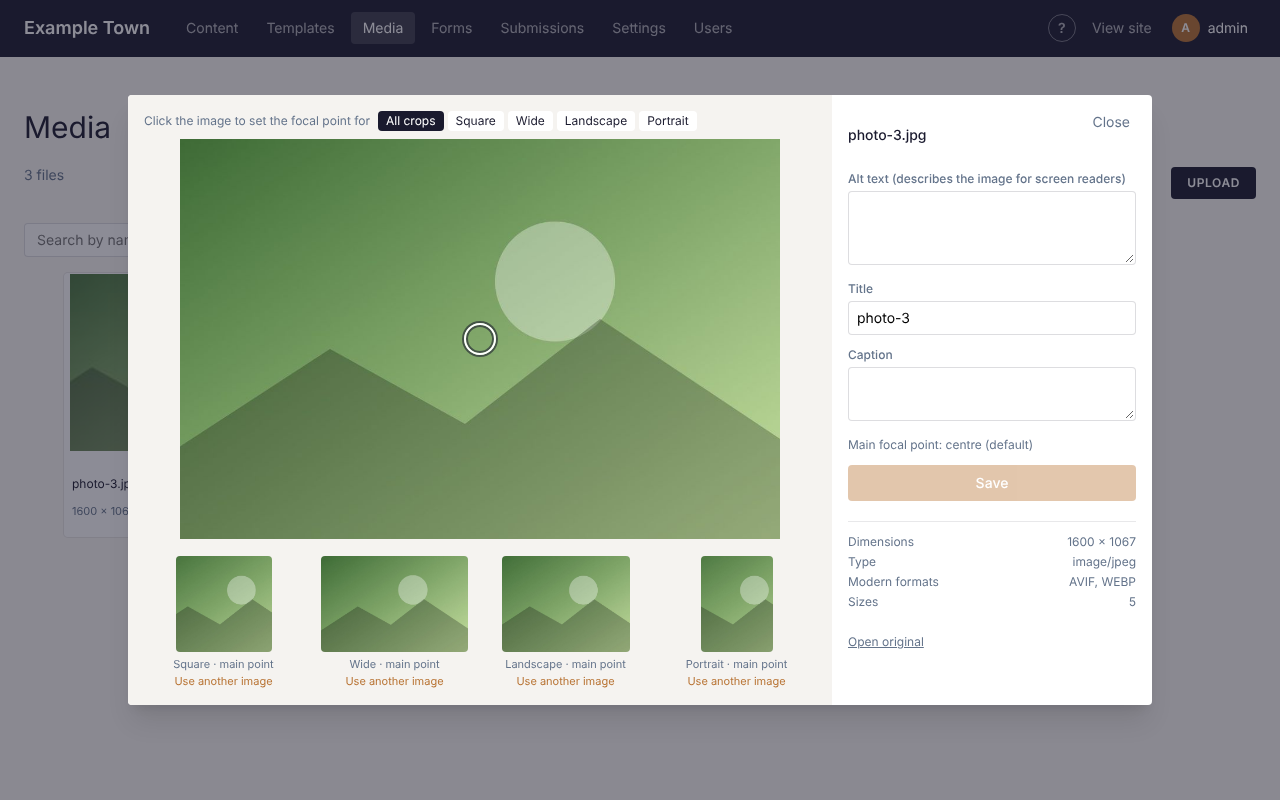
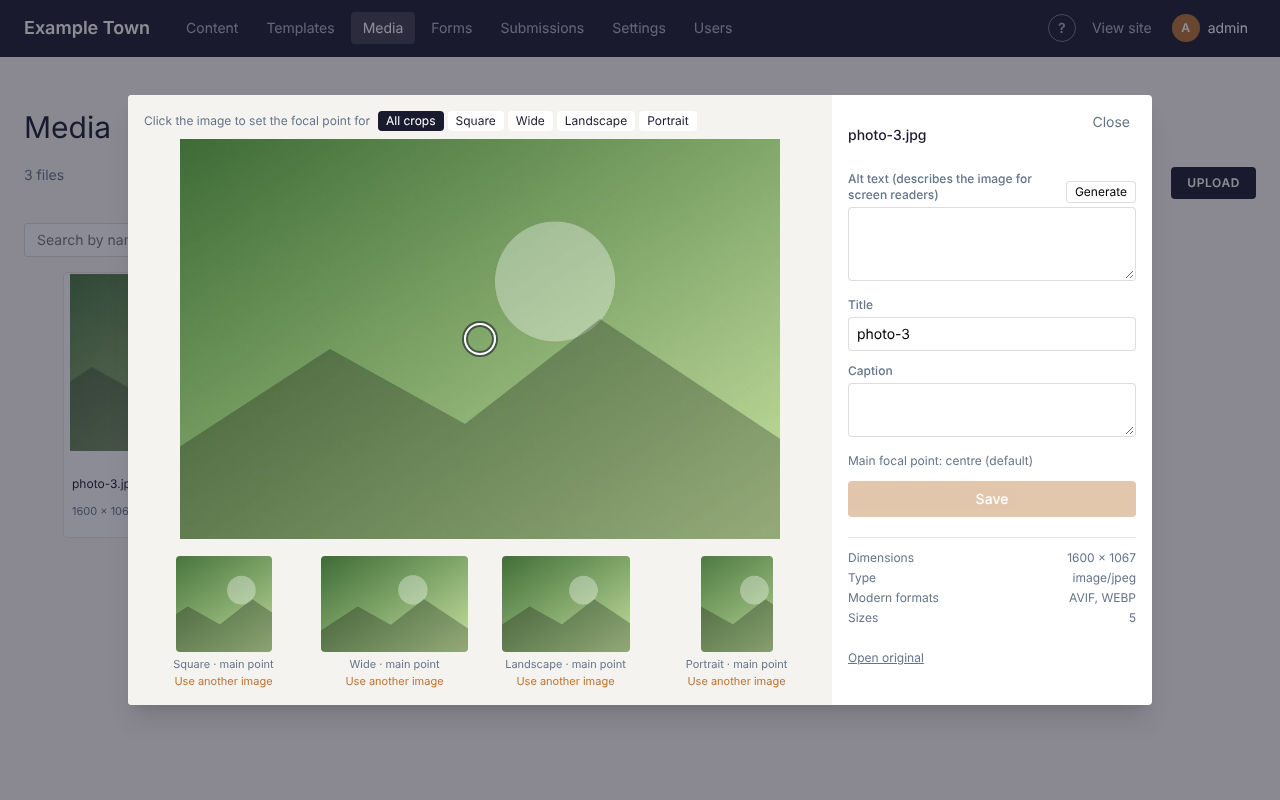
Media library: Generate alt text with Claude
The alt text field in an image's details has Generate: Claude (the quick SEO
model) looks at the image with its file name, title, caption and current alt
text and writes one sentence into the form, saved with Save. Raster images
only; the request leaves the page cache alone. Docs and the site guide updated.

Claude-Session: https://claude.ai/code/session_01BBav2VRnCnaYiKq5puBKN7

diff --git a/src/admin/MediaDetail.tsx b/src/admin/MediaDetail.tsx
@@ -9,6 +9,7 @@ import { mediaUrl } from '../lib/media/image';
 import type { Media } from '../lib/types';
 import { SHAPES, position, type Point } from '../lib/media/focal';
 import { MediaModal } from '../puck/fields';
+import { describable } from '../lib/media/alt-text';
 
 const input = 'w-full rounded border border-admin-ink/15 bg-white px-2 py-1.5 text-sm outline-none focus:border-admin-accent';
 const label = 'mb-1 block text-xs font-medium text-admin-muted';
@@ -32,6 +33,9 @@ export default function MediaDetail() {
   // Which point clicks on the image set: the main one, or a crop shape's own.
   const [editing, setEditing] = useState<string>('main');
   const [status, setStatus] = useState('');
+  // Alt text from Claude (Generate): under way, or what went wrong.
+  const [writing, setWriting] = useState(false);
+  const [altNote, setAltNote] = useState('');
   const frame = useRef<HTMLDivElement>(null);
   const dragging = useRef(false);
 
@@ -39,6 +43,7 @@ export default function MediaDetail() {
     const open = async (e: Event) => {
       const id = (e as CustomEvent<number>).detail;
       setStatus('');
+      setAltNote('');
       const { data } = await browserClient().from('media').select('*').eq('id', id).single();
       if (!data) return;
       setM(data as Row);
@@ -82,6 +87,18 @@ export default function MediaDetail() {
   const changed = draft.alt !== (m.alt ?? '') || draft.title !== (m.title ?? '') || draft.caption !== (m.caption ?? '') || focusChanged || swapsChanged;
   const formats = Object.keys(m.formats ?? {});
 
+  /** Alt text written by Claude from the image, into the form (saved with Save). */
+  const generateAlt = async () => {
+    if (!m) return;
+    setWriting(true);
+    setAltNote('');
+    const res = await fetch('/api/admin/media/describe', { method: 'POST', headers: { 'Content-Type': 'application/json' }, body: JSON.stringify({ id: m.id }) }).catch(() => null);
+    setWriting(false);
+    if (!res?.ok) return setAltNote(res ? await res.text() : 'No connection.');
+    const { alt } = await res.json();
+    setDraft((d) => ({ ...d, alt }));
+    setAltNote('Written by Claude: check it, then Save.');
+  };
   const save = async () => {
     setStatus(focusChanged ? 'Saving and re-cropping thumbnails...' : 'Saving...');
     const res = await fetch(`/api/admin/media/${m.id}`, { method: 'PUT', headers: { 'Content-Type': 'application/json' }, body: JSON.stringify({ alt: draft.alt, title: draft.title, caption: draft.caption, focal_point: draft.focal, crop_focals: draft.crops, crop_images: draft.swaps }) });
@@ -188,10 +205,24 @@ export default function MediaDetail() {
               Close
             </button>
           </div>
-          <label className="mb-3 block">
-            <span className={label}>Alt text (describes the image for screen readers)</span>
-            <textarea className={input} rows={3} value={draft.alt} onChange={(e) => setDraft({ ...draft, alt: e.target.value })} />
-          </label>
+          <div className="mb-3">
+            <div className="mb-1 flex items-end justify-between gap-2">
+              <label htmlFor="media-alt" className="block text-xs font-medium text-admin-muted">
+                Alt text (describes the image for screen readers)
+              </label>
+              {describable(m) && (
+                <button type="button" onClick={generateAlt} disabled={writing} className="shrink-0 rounded border border-admin-ink/15 bg-white px-2 py-0.5 text-xs hover:border-admin-accent hover:text-admin-accent disabled:opacity-50" title="Claude looks at the image and writes a description">
+                  {writing ? 'Writing…' : 'Generate'}
+                </button>
+              )}
+            </div>
+            <textarea id="media-alt" className={input} rows={3} value={draft.alt} onChange={(e) => setDraft({ ...draft, alt: e.target.value })} />
+            {altNote && (
+              <p className="mt-1 text-xs text-admin-muted" role="status">
+                {altNote}
+              </p>
+            )}
+          </div>
           <label className="mb-3 block">
             <span className={label}>Title</span>
             <input className={input} value={draft.title} onChange={(e) => setDraft({ ...draft, title: e.target.value })} />

diff --git a/src/lib/media/describe.ts b/src/lib/media/describe.ts
@@ -1,0 +1,22 @@
+// Alt text written by Claude from the image itself (the media library's Generate): the image as a
+// JPEG (imageForClaude) with its file name, title and caption, through quickAsk. Nothing is saved
+// until the editor saves the form.
+import type { Media } from '../types';
+import { imageForClaude } from '../compose/materials';
+import { quickAsk } from '../compose/quick';
+import type { MediaStore } from './process';
+import { ALT_MAX, altContext } from './alt-text';
+
+export async function describeImage(store: MediaStore, m: Media): Promise<string> {
+  const data = await imageForClaude(store, m);
+  const out = await quickAsk<{ alt?: string }>(
+    'You write alt text for images on the site: what someone who can\'t see the image needs to know, in one plain sentence. Describe what matters (who or what, doing what, where), not colours or composition unless they matter. Don\'t start with "Image of" or "Photo of". Name people or places only when the title or caption names them; otherwise describe them. If the image is mostly text (a flyer, a sign), give the text\'s gist. If it is purely decorative, say so in a few words.',
+    { name: 'alt_text', description: 'The alt text.', input_schema: { type: 'object', required: ['alt'], properties: { alt: { type: 'string', description: `At most ${ALT_MAX} characters, no quotation marks around it.` } } } },
+    [
+      { type: 'image', source: { type: 'base64', media_type: 'image/jpeg', data } },
+      { type: 'text', text: altContext(m) },
+    ],
+    300,
+  );
+  return (out.alt ?? '').trim().replace(/^["']|["']$/g, '');
+}

diff --git a/tests/alt-text.test.ts b/tests/alt-text.test.ts
@@ -1,0 +1,24 @@
+// The media library's alt text Generate (src/lib/media/alt-text.ts, describe.ts): which files it offers
+// it for, what it tells Claude besides the image, and that it leaves the page cache alone.
+import { describe, expect, it } from 'vitest';
+import { altContext, describable } from '../src/lib/media/alt-text';
+import { changesPages } from '../src/lib/cache';
+
+describe('alt text generation', () => {
+  it('is offered for raster images only', () => {
+    expect(describable({ mime_type: 'image/jpeg' })).toBe(true);
+    expect(describable({ mime_type: 'image/webp' })).toBe(true);
+    expect(describable({ mime_type: 'image/svg+xml' })).toBe(false);
+    expect(describable({ mime_type: 'video/mp4' })).toBe(false);
+  });
+
+  it('passes on the file name, title, caption and current alt text', () => {
+    expect(altContext({ path: '2026/10/market-day.jpg', title: 'Market day', caption: 'Main Street, May 4', alt: '' })).toBe('File name: market-day.jpg\nTitle: Market day\nCaption: Main Street, May 4');
+    expect(altContext({ path: 'a.png', title: '', caption: '', alt: 'A dog' })).toBe('File name: a.png\nIts alt text now (improve on it): A dog');
+  });
+
+  it('leaves the page cache alone', () => {
+    expect(changesPages('POST', '/api/admin/media/describe')).toBe(false);
+    expect(changesPages('PUT', '/api/admin/media/5')).toBe(true);
+  });
+});

diff --git a/src/pages/api/admin/media/describe.ts b/src/pages/api/admin/media/describe.ts
@@ -1,0 +1,23 @@
+// Suggest an image's alt text (the media library's Generate): POST { id }; answers { alt }. Nothing is
+// saved: the editor saves the form.
+import type { APIRoute } from 'astro';
+import { serviceClient } from '../../../../lib/db/site';
+import { MediaStore } from '../../../../lib/media/process';
+import { describeImage } from '../../../../lib/media/describe';
+import { describable } from '../../../../lib/media/alt-text';
+import { QuickError } from '../../../../lib/compose/quick';
+import type { Media } from '../../../../lib/types';
+
+export const POST: APIRoute = async ({ request, locals }) => {
+  const body = await request.json().catch(() => ({}));
+  const { data: m } = await locals.db.from('media').select('*').eq('id', Number(body.id) || 0).maybeSingle();
+  if (!m) return new Response('No such file.', { status: 404 });
+  if (!describable(m as Media)) return new Response('Alt text can be written for photos and images only.', { status: 400 });
+  try {
+    const alt = await describeImage(new MediaStore(serviceClient()), m as Media);
+    if (!alt) return new Response('No suggestion came back.', { status: 502 });
+    return Response.json({ alt });
+  } catch (e) {
+    return new Response((e as Error).message, { status: e instanceof QuickError ? e.status : 502 });
+  }
+};

diff --git a/src/lib/cache.ts b/src/lib/cache.ts
@@ -17,7 +17,7 @@ export const BROWSER_CACHE_CONTROL = 'public, max-age=0, must-revalidate';
 // show within the minute, and the ticket form checks what's left as it loads). Everything else under
 // /api/admin that succeeds with POST, PUT, PATCH or DELETE clears the pages.
 // Mailing's campaigns, digests and contacts aren't on pages (its lists are: Subscribe blocks name them).
-const NO_PURGE = ['/api/admin/mailing/campaigns', '/api/admin/mailing/contacts', '/api/admin/mailing/digests', '/api/admin/mailing/preview', '/api/admin/mailing/segments', '/api/admin/a11y', '/api/admin/compose', '/api/admin/email-events', '/api/admin/excerpt', '/api/admin/meta-compose', '/api/admin/seo', '/api/admin/submissions', '/api/admin/tickets', '/api/admin/users'];
+const NO_PURGE = ['/api/admin/mailing/campaigns', '/api/admin/mailing/contacts', '/api/admin/mailing/digests', '/api/admin/mailing/preview', '/api/admin/mailing/segments', '/api/admin/a11y', '/api/admin/compose', '/api/admin/email-events', '/api/admin/excerpt', '/api/admin/media/describe', '/api/admin/meta-compose', '/api/admin/seo', '/api/admin/submissions', '/api/admin/tickets', '/api/admin/users'];
 // Settings > Sync: only syncing into this copy and restoring a backup here change its content.
 const SYNC_WRITES = ['apply', 'restoreBackup'];
 

diff --git a/src/lib/compose/quick.ts b/src/lib/compose/quick.ts
@@ -1,5 +1,7 @@
 // One short Claude call that answers through a tool (a fixed shape): the SEO section's Generate, the
-// excerpt's Write with Claude, and a term's or taxonomy's Write with Claude. ANTHROPIC_SEO_MODEL (default Haiku 4.5, which is quick).
+// excerpt's Write with Claude, a term's or taxonomy's Write with Claude, and an image's alt text (Generate in
+// the media library, with the image). ANTHROPIC_SEO_MODEL (default Haiku 4.5, which is quick).
+import type Anthropic from '@anthropic-ai/sdk';
 import { site } from '../site';
 import { claudeClient, env, NO_KEY } from './client';
 
@@ -10,7 +12,7 @@ export class QuickError extends Error {
 }
 
 /** Ask for `tool`'s input, given a task (system text after the site's brief) and the page. */
-export async function quickAsk<T>(task: string, tool: { name: string; description: string; input_schema: Record<string, any> }, page: string, maxTokens = 500): Promise<T> {
+export async function quickAsk<T>(task: string, tool: { name: string; description: string; input_schema: Record<string, any> }, page: string | Anthropic.ContentBlockParam[], maxTokens = 500): Promise<T> {
   const client = claudeClient();
   if (!client) throw new QuickError(NO_KEY, 503);
   const res = await client.messages.create({

diff --git a/src/lib/media/alt-text.ts b/src/lib/media/alt-text.ts
@@ -1,0 +1,16 @@
+// What the media library's alt text Generate works from (safe in the browser; the call is describe.ts).
+import type { Media } from '../types';
+
+export const ALT_MAX = 150;
+
+/** Whether Claude can look at it: raster images only (not SVG, video or documents). */
+export const describable = (m: Pick<Media, 'mime_type'>) => /^image\/(jpeg|png|gif|webp|avif)$/.test(m.mime_type ?? '');
+
+/** What is known about the image besides its pixels, for names and places Claude can't see. */
+export function altContext(m: Pick<Media, 'path' | 'title' | 'caption' | 'alt'>): string {
+  const lines = [`File name: ${m.path.split('/').pop()}`];
+  if (m.title) lines.push(`Title: ${m.title}`);
+  if (m.caption) lines.push(`Caption: ${m.caption}`);
+  if (m.alt) lines.push(`Its alt text now (improve on it): ${m.alt}`);
+  return lines.join('\n');
+}

diff --git a/CORE.md b/CORE.md
@@ -460,7 +460,11 @@ a `-scaled` copy as the full size, the standard sizes are generated (hard crops 
 point), and every file gets AVIF and WebP copies next to it. An SVG is stored as uploaded. It can carry script and
 `/media/` is the site's own address, so every `/media/` answer carries `Content-Security-Policy:
 sandbox` and `X-Content-Type-Options: nosniff` (`MEDIA_HEADERS`): a
-file opened on its own can't run script, and images in pages are unaffected. `media.focal_point` ({x, y} in 0..1) is set
+file opened on its own can't run script, and images in pages are unaffected. An image's alt text has
+**Generate** in the media library (`POST /api/admin/media/describe`, `describeImage` in
+`src/lib/media/describe.ts`): Claude (`quickAsk`, `ANTHROPIC_SEO_MODEL`) looks at the image as a JPEG
+(`imageForClaude`) with its file name, title, caption and current alt text (`altContext`) and writes one
+sentence into the form, saved with Save; raster images only (`describable`). `media.focal_point` ({x, y} in 0..1) is set
 in the media library, with optional overrides per crop shape (`media.crop_focals`: square, 16:9, 4:3,
 3:4; `src/lib/media/focal.ts`). Changes re-crop the cropped sizes; the point for the nearest shape
 becomes `object-position` wherever the image is cropped to a ratio. Each shape can also use another

diff --git a/docs-site/src/content/docs/features/media.md b/docs-site/src/content/docs/features/media.md
@@ -17,6 +17,15 @@ Worker's `IMAGES` binding; locally Miniflare's, which centres crops):
   address, so every `/media/` answer carries `Content-Security-Policy: sandbox` and
   `X-Content-Type-Options: nosniff`: a file opened on its own can't run script.
 
+## Alt text
+
+The media library's detail panel has **Generate** beside an image's alt text
+(`POST /api/admin/media/describe`, `src/lib/media/describe.ts`): Claude (`ANTHROPIC_SEO_MODEL`, the
+quick model the SEO Generate uses) looks at the image, with its file name, title, caption and any
+current alt text, and writes one plain sentence into the form. Nothing is saved until Save. It is
+offered for raster images (JPEG, PNG, GIF, WebP, AVIF), not SVGs or videos, and needs
+`ANTHROPIC_API_KEY`.
+
 ## Focal points
 
 `media.focal_point` (`{ x, y }` in 0..1) is set in the media library, with optional overrides per crop

diff --git a/docs-site/src/content/docs/guide/images-and-files.md b/docs-site/src/content/docs/guide/images-and-files.md
@@ -36,6 +36,11 @@ Click an image in **Media** to open its details.
 if the picture doesn't load. Write what someone would need to know, for example "Children planting
 flowers at the community garden". Leave it empty only for pictures that are purely decoration.
 
+**Not sure what to write?** Click **Generate** beside the box. Claude looks at the picture and writes
+a description for you. Read it and change anything that isn't right (it can't know people's names
+unless the title or caption says them), then click **Save**. Adding a title or caption first gives it
+more to go on.
+
 **Title** and **Caption** are optional. Click **Save** when done.
 
 ## Keeping the important part in view

diff --git a/docs-site/src/content/docs/guide/writing-with-claude.md b/docs-site/src/content/docs/guide/writing-with-claude.md
@@ -47,4 +47,5 @@ block's name, and your request only changes that block (or its whole section, if
 - Compose can also work on templates and the header or footer; the panel says when a change affects
   every page.
 - **Write with Claude** buttons elsewhere (for example under the excerpt, or **Generate** in the SEO
-  settings) write just that one piece of text.
+  settings, or **Generate** beside an image's alt text in **Media**) write just that one piece of
+  text.
